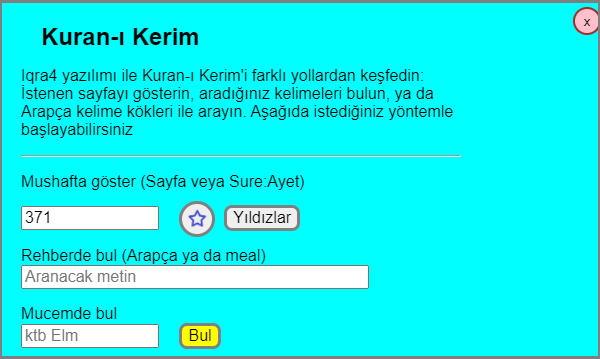
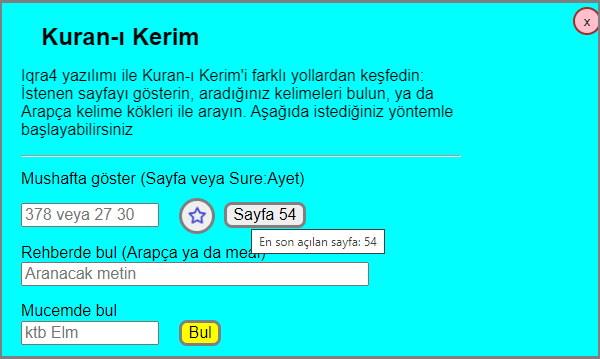
V4.2
update guideQ

diff --git a/guideQ.html b/guideQ.html
@@ -42,7 +42,7 @@
     <li><a href="#rehber">Rehber</a>
     <li><a href="#mucem">Mucem</a>
     <li><a href="#benzerlik">Benzerlik</a>
-    <li><a href="#yetenekler">Yetenekler</a>
+    <li><a href="#panel">Paneller</a>
     <li><a href="#sss">Sorular</a>
     <li><a href="history.html">Tarihçe</a>
     <li><a href="#tesekkur">Teşekkür</a>
@@ -53,7 +53,7 @@
 
 <p>Iqra, Kerim Kitabımız Kuran’ı okumak için yapılan yüzlerce yazılımdan biridir. Bunu diğer yazılımlardan ayrılan temel özellikler: Kelime kökünü Kuran metni üzerinde belirtmesi, bir kelimenin Kuran-ı Kerim'de geçtiği tüm sayfaları tek bir ekranda göstermesi ve internetsiz ortamda çalışabilmesidir.</p>
 
-<p>Ezber ve tilavet kolaylığı açısından, standart Mushaf sayfalarının düzeni aynen kullanıldı. </p>
+<p>Ezber ve tilavet kolaylığı açısından, standart Mushaf sayfalarını kullandık. </p>
 
 <h3 id=mushaf>1. Mushaf sayfaları</h3>
 
@@ -64,16 +64,19 @@
 </p>
 
 <p>
+  Başlangıç sayfası telefon ekranında şöyle görünür: <br><br>
   <img src="docs/start.png" alt="Start ekranı" class=large />
 </p>
 <ul>
-  <li>Mushafta göster: Sayfa veya ayet numarası ile belirtilen yeri göster</li>
-  <li>Rehberde bul: Kuran metninde Arapça ya da mealde Türkçe kelime ara</li>
+  <li>Mushafta göster: Sayfa veya ayet numarası ile belirtilen yeri,<br>
+    veya son işaretlenen ya da son açılan sayfayı göster
+  </li>
+  <li>Rehberde bul: Kuran metninde Arapça ya da mealde kelime ara</li>
   <li>Mucemde bul: Verilen Arapça kökten türetilen kelimeleri ara</li>
 </ul>
-
-<p>Giriş sayfasında sayfa ya da ayet numarası ile mushaf açılır. Ekran yeteri kadar geniş ise hem Kuran sayfası hem de meali görünür. Sayfa açılınca, sonraki ya da önceki sayfaya geçmek, başka bir sure ya da sayfa numarası vermek mümkün.</p>
-
+<p>Mushaf açılınca, ekran yeteri kadar geniş ise hem Kuran sayfası hem de meali görünür.
+İkisi bir arada sığmıyorsa sadece biri gösterilir (Bk: <a href="#panel">Paneller</a>)
+Mushaf açıkken sonraki ya da önceki sayfaya geçmek, başka bir sure, ayet ya da sayfa numarası vermek mümkün.</p>
 
 <p>Başlangıç adresinde sayfa ya da ayet numaraları belirtilebilir:</p>
 <ul>
@@ -87,19 +90,17 @@
   <img src="docs/Iqra_ktb.png" alt="Iqra ekranı" class=large />
 </p>
 
-<p>Sağ üstte görünen tuşların anlamı:
+<p>Sağ üstte görünen butonların anlamı:
 <ul>
-  <li>☆ &nbsp; Yer işareti ekle/sil</li>
-  <li>T &nbsp; Tercüme göster/gizle (geniş ekranda görünmez)</li>
+  <li>☆ &nbsp; Yer işareti ekle/sil/seç</li>
+  <li>T &nbsp; Tercüme göster/gizle/seç</li>
   <li><xs>A</xs>A &nbsp;Yazı boyu büyük/normal (dar ekranda görünmez)</li>
-  <li><u>=</u> &nbsp; Sayfa menüsü: Dış kaynaklar, Sürüm, Yardım, Yer işaretleri</li>
+  <li><u>=</u> &nbsp; Sayfa menüsü: Dış kaynaklar, Sürüm, Yardım</li>
   <li>A &nbsp; Arama paneline geç (Pembe tuş)</li>
 </ul>
 
 </p>
-
-<p>Arapça kelimelerin kökü, bilgisayarda mouse ile kelimeye tıklayarak, mobilde dokunarak bulunur. Sayfanın adresinde yazılan sayfa ya da ayet numarasından sonra, <code>&amp;r=ktb</code> şeklinde kelime kökleri verilirse, bu kelimeler renkli gösterilir. Mucemde seçilen kelimeler bu şekilde renklendiriliyor.</p>
-
+<p>Arapça kelimelerin kökü, bilgisayarda mouse ile kelimeye tıklayarak, mobilde dokunarak bulunur. Arama panelinde (Mucem veya Rehber) seçilen ayetler ve kelimeler renkli gösterilir.</p>
 <p>Dar ekranlara hem ayet hem de meal sütunları bir arada sığmaz, ayetler ile anlamlar arasındaki geçiş için T tuşuna basmak gerekiyor. Fontlar ekran genişliği ile orantılı olduğundan, telefonu yan tutmak daha iyi görüntü verecektir.</p>
 
 <p>
@@ -163,7 +164,7 @@ benzerlik modülü de Arapça kelime kökleri ile çalıştığı için,
 sadece Arapça metinde kullanılır, mealler için benzerlik modülü henüz yok.
 </p>
 
-<h3 id="yetenekler">3. Yazılımın yetenekleri</h3>
+<h3 id="panel">3. Yazılımın yetenekleri</h3>
 
 <p>PWA (Progressive web application) olduğu için taşıdığı özellikler:</p>
 
@@ -174,9 +175,25 @@ sadece Arapça metinde kullanılır, mealler için benzerlik modülü henüz yok
   <li>Internet bağlantısı olmadan off-line çalışabilir</li>
   <li>Masa-üstünden telefona kadar her boy ekranla uyumludur</li>
 </ul>
+<p>Aşağıdaki örnekler üstünde yazılımın yeteneklerini özetleyelim:</p>
 
-<p>Yazılımı kullanırken, arama ve Mushaf pencerelerini aynı anda açık tutmayı tavsiye ediyoruz. Geniş ekranlarda mouse ile, dar ekranlarda adres çubuğunu kaydırarak (ya da ilgili linklere tıklayarak) pencereler arası geçiş sağlanıyor. Aşağıdaki iki örnek üstünde yazılımın yeteneklerini özetleyelim:</p>
+<b>Paneller &ndash; Arama, Tercüme, Kuran</b>
 
+<p>Yazılımın en bariz özelliği, üç panelli tasarım:<br><br>
+  <img src="design/wide.png" alt="üç panel bir arada" class=large /></p>
+  
+<p>Üç paneli üç harfle gösterelim:<br>
+A: Arama, T: Tercüme (meal), K: Kuran
+</p>
+<p>
+Arama paneline bakıldığında şu sayfalardan yalnız biri görünür:
+Başlangıç, Rehber, Mucem, Konular, Notlar, Yıldızlar, Kitap...
+(Kitap sayfaları henüz gelişme aşamasındadır, çevrimdışı çalışmaz)
+</p>
+<p>Ekran yeteri kadar geniş ise üç panel aynı anda gösterilir. 
+  Diz-üstü bilgisayara iki, telefona yalnız bir panel sığacaktır.
+  Bu durumda, paneller arası geçiş için pembe butonlar ya da ekran kaydırma (swipe) kullanılır.<p>
+<br>
 <b>Mucem-Mushaf Geçişi</b>
 <p><img src="docs/Mucem-Mushaf.png" alt="Mucem-Mushaf" class=large /></p>
 

diff --git a/index.html b/index.html
@@ -73,6 +73,7 @@
   <p id=dummy hidden></p>
 
 <script src="code/common.js"></script>
+<script src="code/model.js"></script>
 <script src="code/utilities.js"></script>
 <script>
 sizer.style.display = 'none' //invisible
